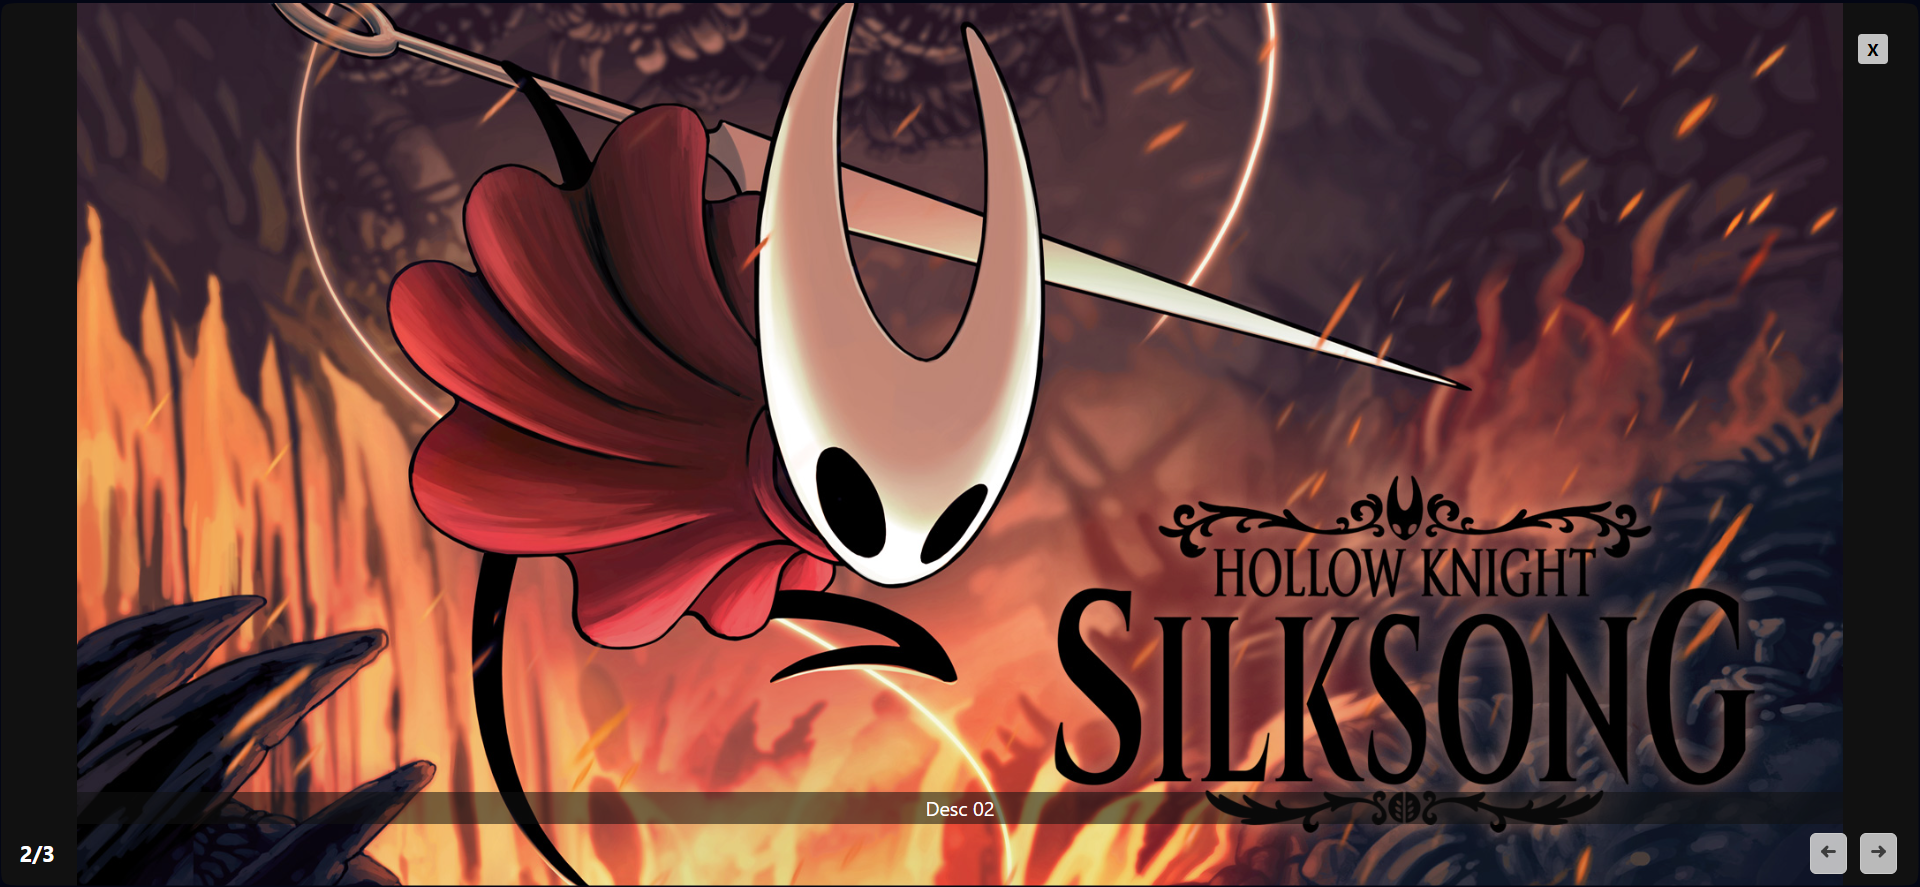
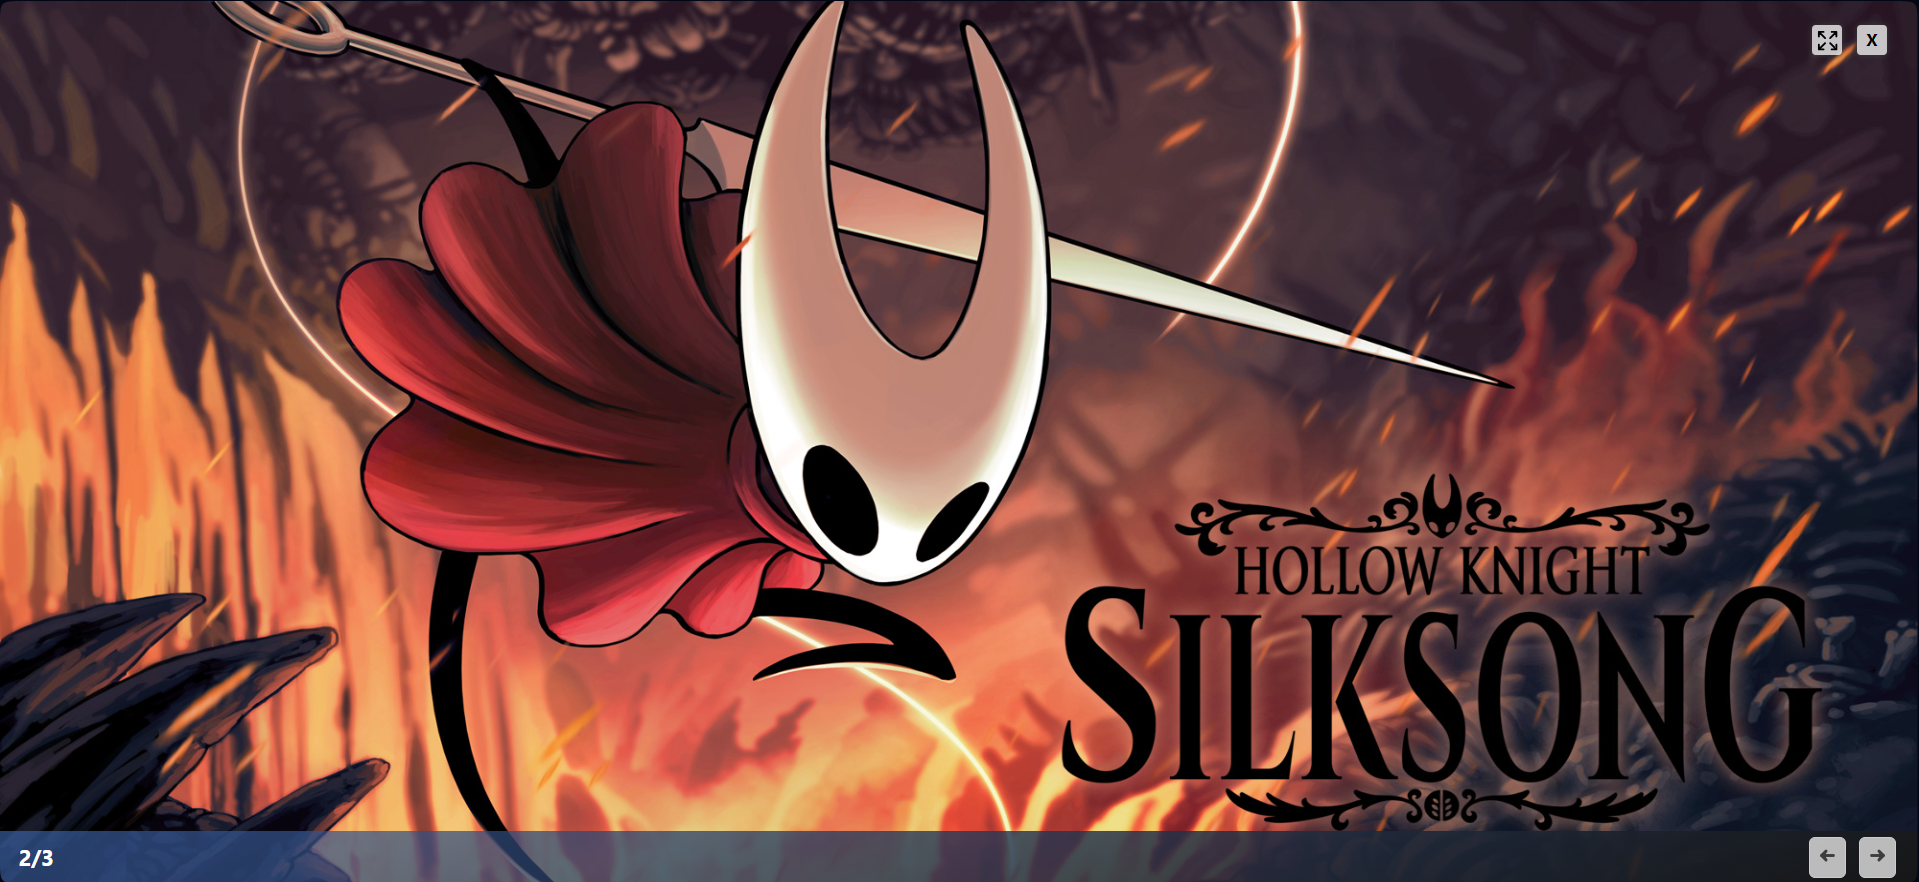
feat: add expand option, add desc in bar with controls and refactor CSS code

diff --git a/ss-gallery.css b/ss-gallery.css
@@ -1,5 +1,7 @@
-:root{
+:root {
     --max-image-width: 1600px;
+    --color-blue: rgb(61, 101, 172);
+    --color-white: #fff;
 }
 
 .ss-gallery-container {
@@ -21,30 +23,47 @@
     height: 100%;
     width: 100%;
     max-width: var(--max-image-width);
+    cursor: pointer;
+}
+
+.ss-gallery-image.ss-gallery-expand img {
     object-fit: cover;
     object-position: center;
     overflow: hidden;
     cursor: pointer;
 }
 
-.ss-gallery-desc {
-    width: 100%;
+.ss-gallery-controller {
     position: absolute;
-    bottom: 50px;
-    text-align: center;
+    padding: 5px 0;
+    bottom: 0;
     display: flex;
-    justify-content: center;
     flex-direction: row;
-    background-color: #1111118a;
-    color: #fff;
-    padding: 2px 0;
+    flex-wrap: nowrap;
+    justify-content: space-evenly;
+    align-items: center;
+    width: 100%;
+    background: var(--color-blue);
+    background: linear-gradient(160deg, rgba(61, 101, 172, 0.6375000683867297) 0%, rgba(22, 22, 22, 1) 100%);
 }
 
-.ss-gallery-desc p{
-    margin: 0;
+.ss-gallery-desc {
+    width: 100%;
+    text-align: center;
+}
+
+.ss-gallery-desc p {
+    margin: 0 10px;
+    color: var(--color-white);
 }
 
 .ss-gallery-counter {
+    max-width: 50px;
+    width: 100%;
+    margin: 0;
+}
+
+.ss-gallery-counter span {
     font-size: 1.1rem;
     font-weight: bold;
     color: #fff;
@@ -54,6 +73,7 @@
 .ss-gallery-buttons {
     text-align: right;
     width: 100%;
+    max-width: 90px;
     margin-right: 15px;
 }
 
@@ -87,28 +107,21 @@
     rotate: -180deg;
 }
 
-.ss-gallery-controller {
-    position: absolute;
-    bottom: 10px;
-    display: flex;
-    flex-direction: row;
-    flex-wrap: nowrap;
-    justify-content: space-evenly;
-    align-items: center;
-    width: 100%;
-}
-
 .fade-in-image {
     animation: fadeIn 1s;
     transition: all 0.2s ease-in-out;
 }
 
-.ss-gallery-close {
+.ss-gallery-helper-buttons {
     display: none;
+    width: 80px;
     position: absolute;
-    top: 25px;
+    top: 15px;
     padding: 4px;
-    right: 25px;
+    right: 15px;
+}
+
+.ss-gallery-helper-buttons button {
     width: 24px;
     height: 24px;
     line-height: 1px;
@@ -117,15 +130,15 @@
     background-color: #eeeeeece;
     border-radius: 3px;
     cursor: pointer;
-    transition: all .3s;
-    box-sizing: 0 0 5px #3d3d3d;
+    transition: all 0.3s;
+    box-shadow: 0 0 5px #3d3d3d;
 }
 
-.ss-gallery-close:active{
+.ss-gallery-helper-buttons button:active {
     background-color: #303030ce;
 }
 
-.ss-gallery-close:hover{
+.ss-gallery-helper-buttons button:hover {
     background-color: #868686ce;
 }
 
@@ -162,8 +175,8 @@
     display: flex;
 }
 
-.ss-gallery-container.modal .ss-gallery-close {
-    display: block;
+.ss-gallery-container.modal .ss-gallery-helper-buttons {
+    display: flex;
 }
 
 .ss-gallery-container.modal .ss-gallery-image img {

diff --git a/index.html b/index.html
@@ -42,13 +42,13 @@
                 <img src="./img/hollow-03.jpg" alt="Desc 03" data-title="Desc 03">
             </div>
 
-            <div class="ss-gallery-desc">
-                <p>Hello World!</p>
-            </div>
-
             <div class="ss-gallery-controller">
-                <div>
-                    <span class="ss-gallery-counter">01/05</span>
+                <div class="ss-gallery-counter">
+                    <p>01/05</p>
+                </div>
+
+                <div class="ss-gallery-desc">
+                    <p>Hello World!</p>
                 </div>
 
                 <div class="ss-gallery-buttons">
@@ -60,7 +60,10 @@
                 </div>
             </div>
 
-            <button class="ss-gallery-close" onclick="toggleModal(false)">X</button>
+            <div class="ss-gallery-helper-buttons">
+                <button class="ss-gallery-expand" onclick="toggleExpand()"><img src="./img/expand.svg" alt="Expand" title="Expand" width="24px" height="24px"></button>
+                <button class="ss-gallery-close" onclick="toggleModal(false)">X</button>
+            </div>
         </div>
         <!--SatellaSoft Gallery-->
 

diff --git a/ss-gallery.js b/ss-gallery.js
@@ -3,7 +3,7 @@
 //Start config
 const delayTime = 3000
 const usingLazy = true
-const showDesc = true
+const showDesc = false
 var currentIndex = 0
 //End config
 
@@ -46,8 +46,6 @@ const toggleModal = (show) => {
 }
 
 const createImage = (item) => {
-
-    //Clear image before create new
     clearImage()
     changeCounter()
 
@@ -91,7 +89,11 @@ const navigate = (next) => {
 }
 
 const changeCounter = () => {
-    counter.innerText = `${currentIndex + 1}/${elements.length}`
+    counter.innerHTML = `<span>${currentIndex + 1}/${elements.length}</span>`
+}
+
+const toggleExpand = () => {
+    imageContainer.classList.toggle('ss-gallery-expand')
 }
 
 setInterval(() => {
